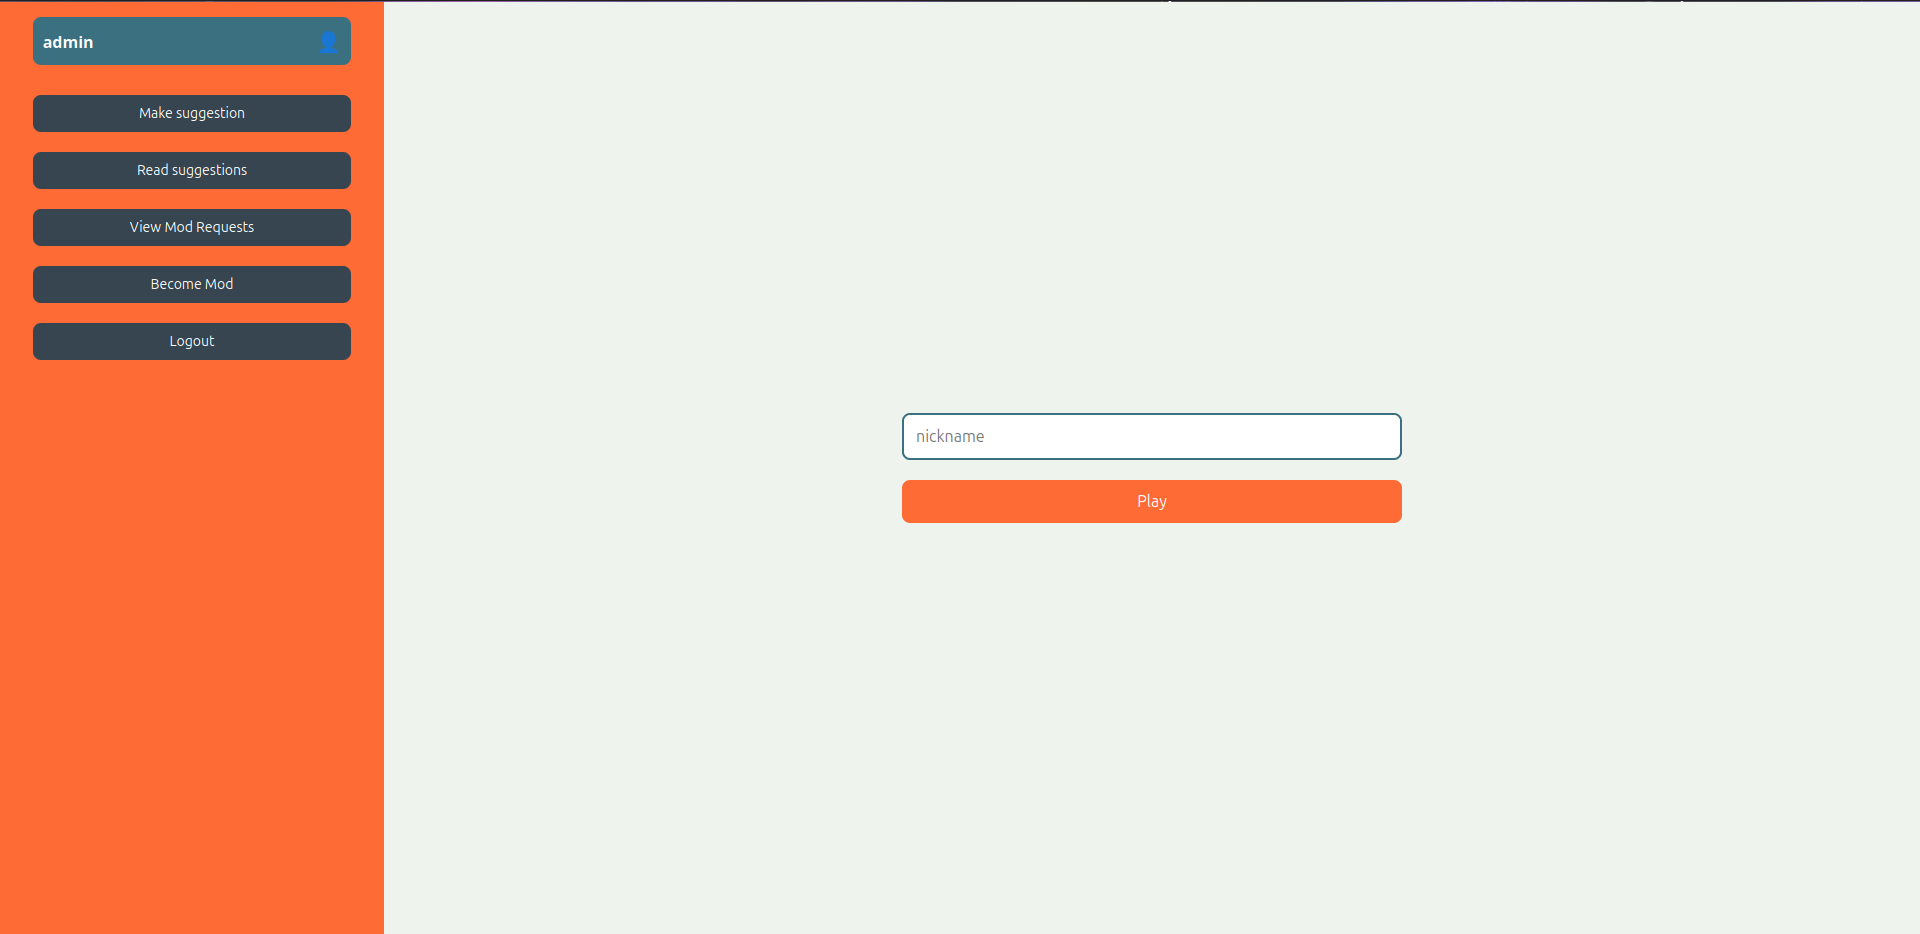
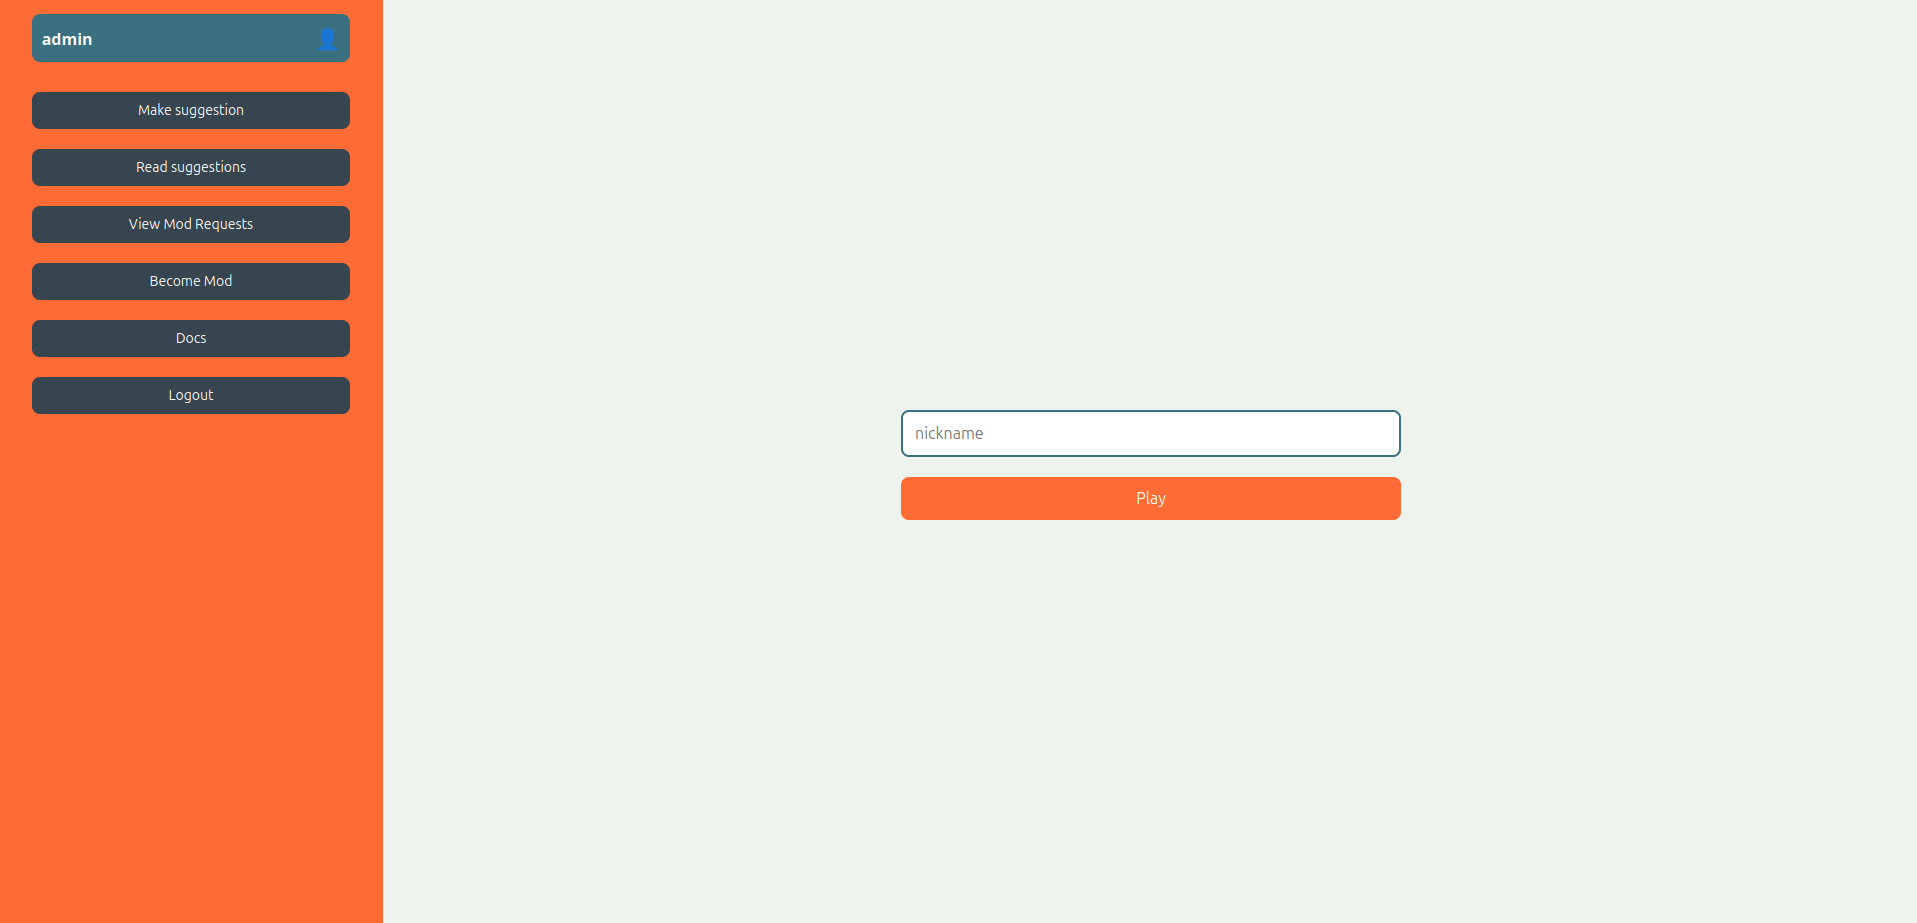
Made Docs button

Changed region(s): [[0.4617, 0.4247, 0.7387, 0.5764], [0.0, 0.0, 0.1847, 0.3337], [0.0, 0.364, 0.1847, 0.455]]

diff --git a/frontend/src/App.js b/frontend/src/App.js
@@ -11,6 +11,8 @@ import { useAuth } from "./components/Context/AuthContext";
 import { Game } from "./components/game/game.jsx";
 import { findRandomGame, GameCtx } from "./components/Context/gameCtx.jsx";
 
+const docsUrl = "https://github.com/BieleczkiGergo/Actimoji/tree/main/backend/Actimoji/docs";
+
 function App() {
   const { token, logout, user } = useAuth();
   const isMod = user?.roles?.includes("ROLE_MODERATOR");
@@ -68,6 +70,11 @@ function App() {
     game.joinGame(rid, nickname);
   };
 
+  const handleDocsOpen = () => {
+    window.open(docsUrl, '_blank', 'noopener,noreferrer');
+
+  };
+
   return (
     <div className="container">
       <div className="sidebar">
@@ -80,6 +87,7 @@ function App() {
         <button className="sidebarButton" onClick={handleReadSuggestionClick}>Read suggestions</button>
         <button className="sidebarButton" onClick={handleModRequestClick}>View Mod Requests</button>
         <button className="sidebarButton" onClick={handleBecomeModClick}>Become Mod</button>
+        <button className="sidebarButton" onClick={handleDocsOpen}>Docs</button>
 
         {token ? (
           <button className="sidebarButton" onClick={logout}>Logout</button>

diff --git a/README.md b/README.md
@@ -23,3 +23,17 @@ configurations. Run the configuration.
 To start the frontend server, navigate to /frontend in a terminal and run:
 `npm start`
 
+---
+
+# Documentation
+
+Documentation is accessible through this url:
+
+https://github.com/BieleczkiGergo/Actimoji/tree/main/backend/Actimoji/docs
+
+Or alternatively, you can click on the 'Docs' button in the application.
+
+# Archiving
+
+To create an archive of the project, run `archive.sh`.
+
